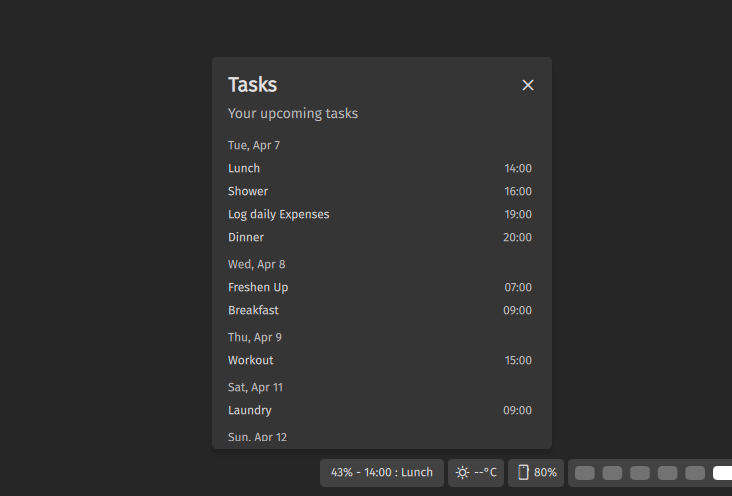
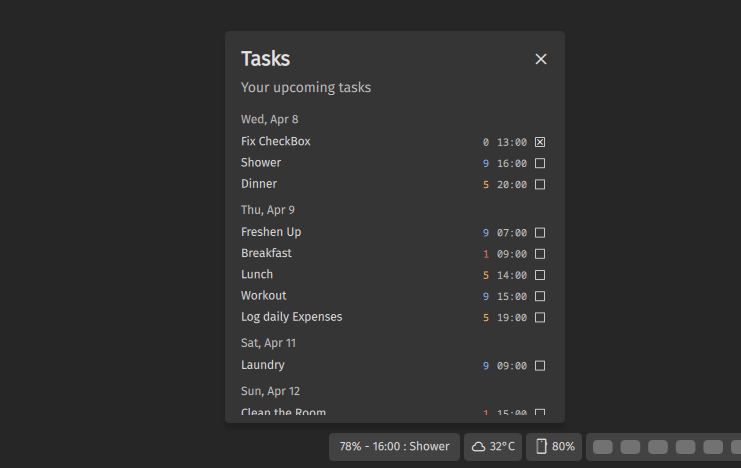
chore: updates screenshot

diff --git a/README.md b/README.md
@@ -14,4 +14,4 @@ Planned:
 - Support for creating new tasks from the UI
 - Support for configurable template strings on UI elements
 - Support for tracking time spent on a task
-- Support of multiple CalDav calendars
+- Support for multiple CalDav calendars